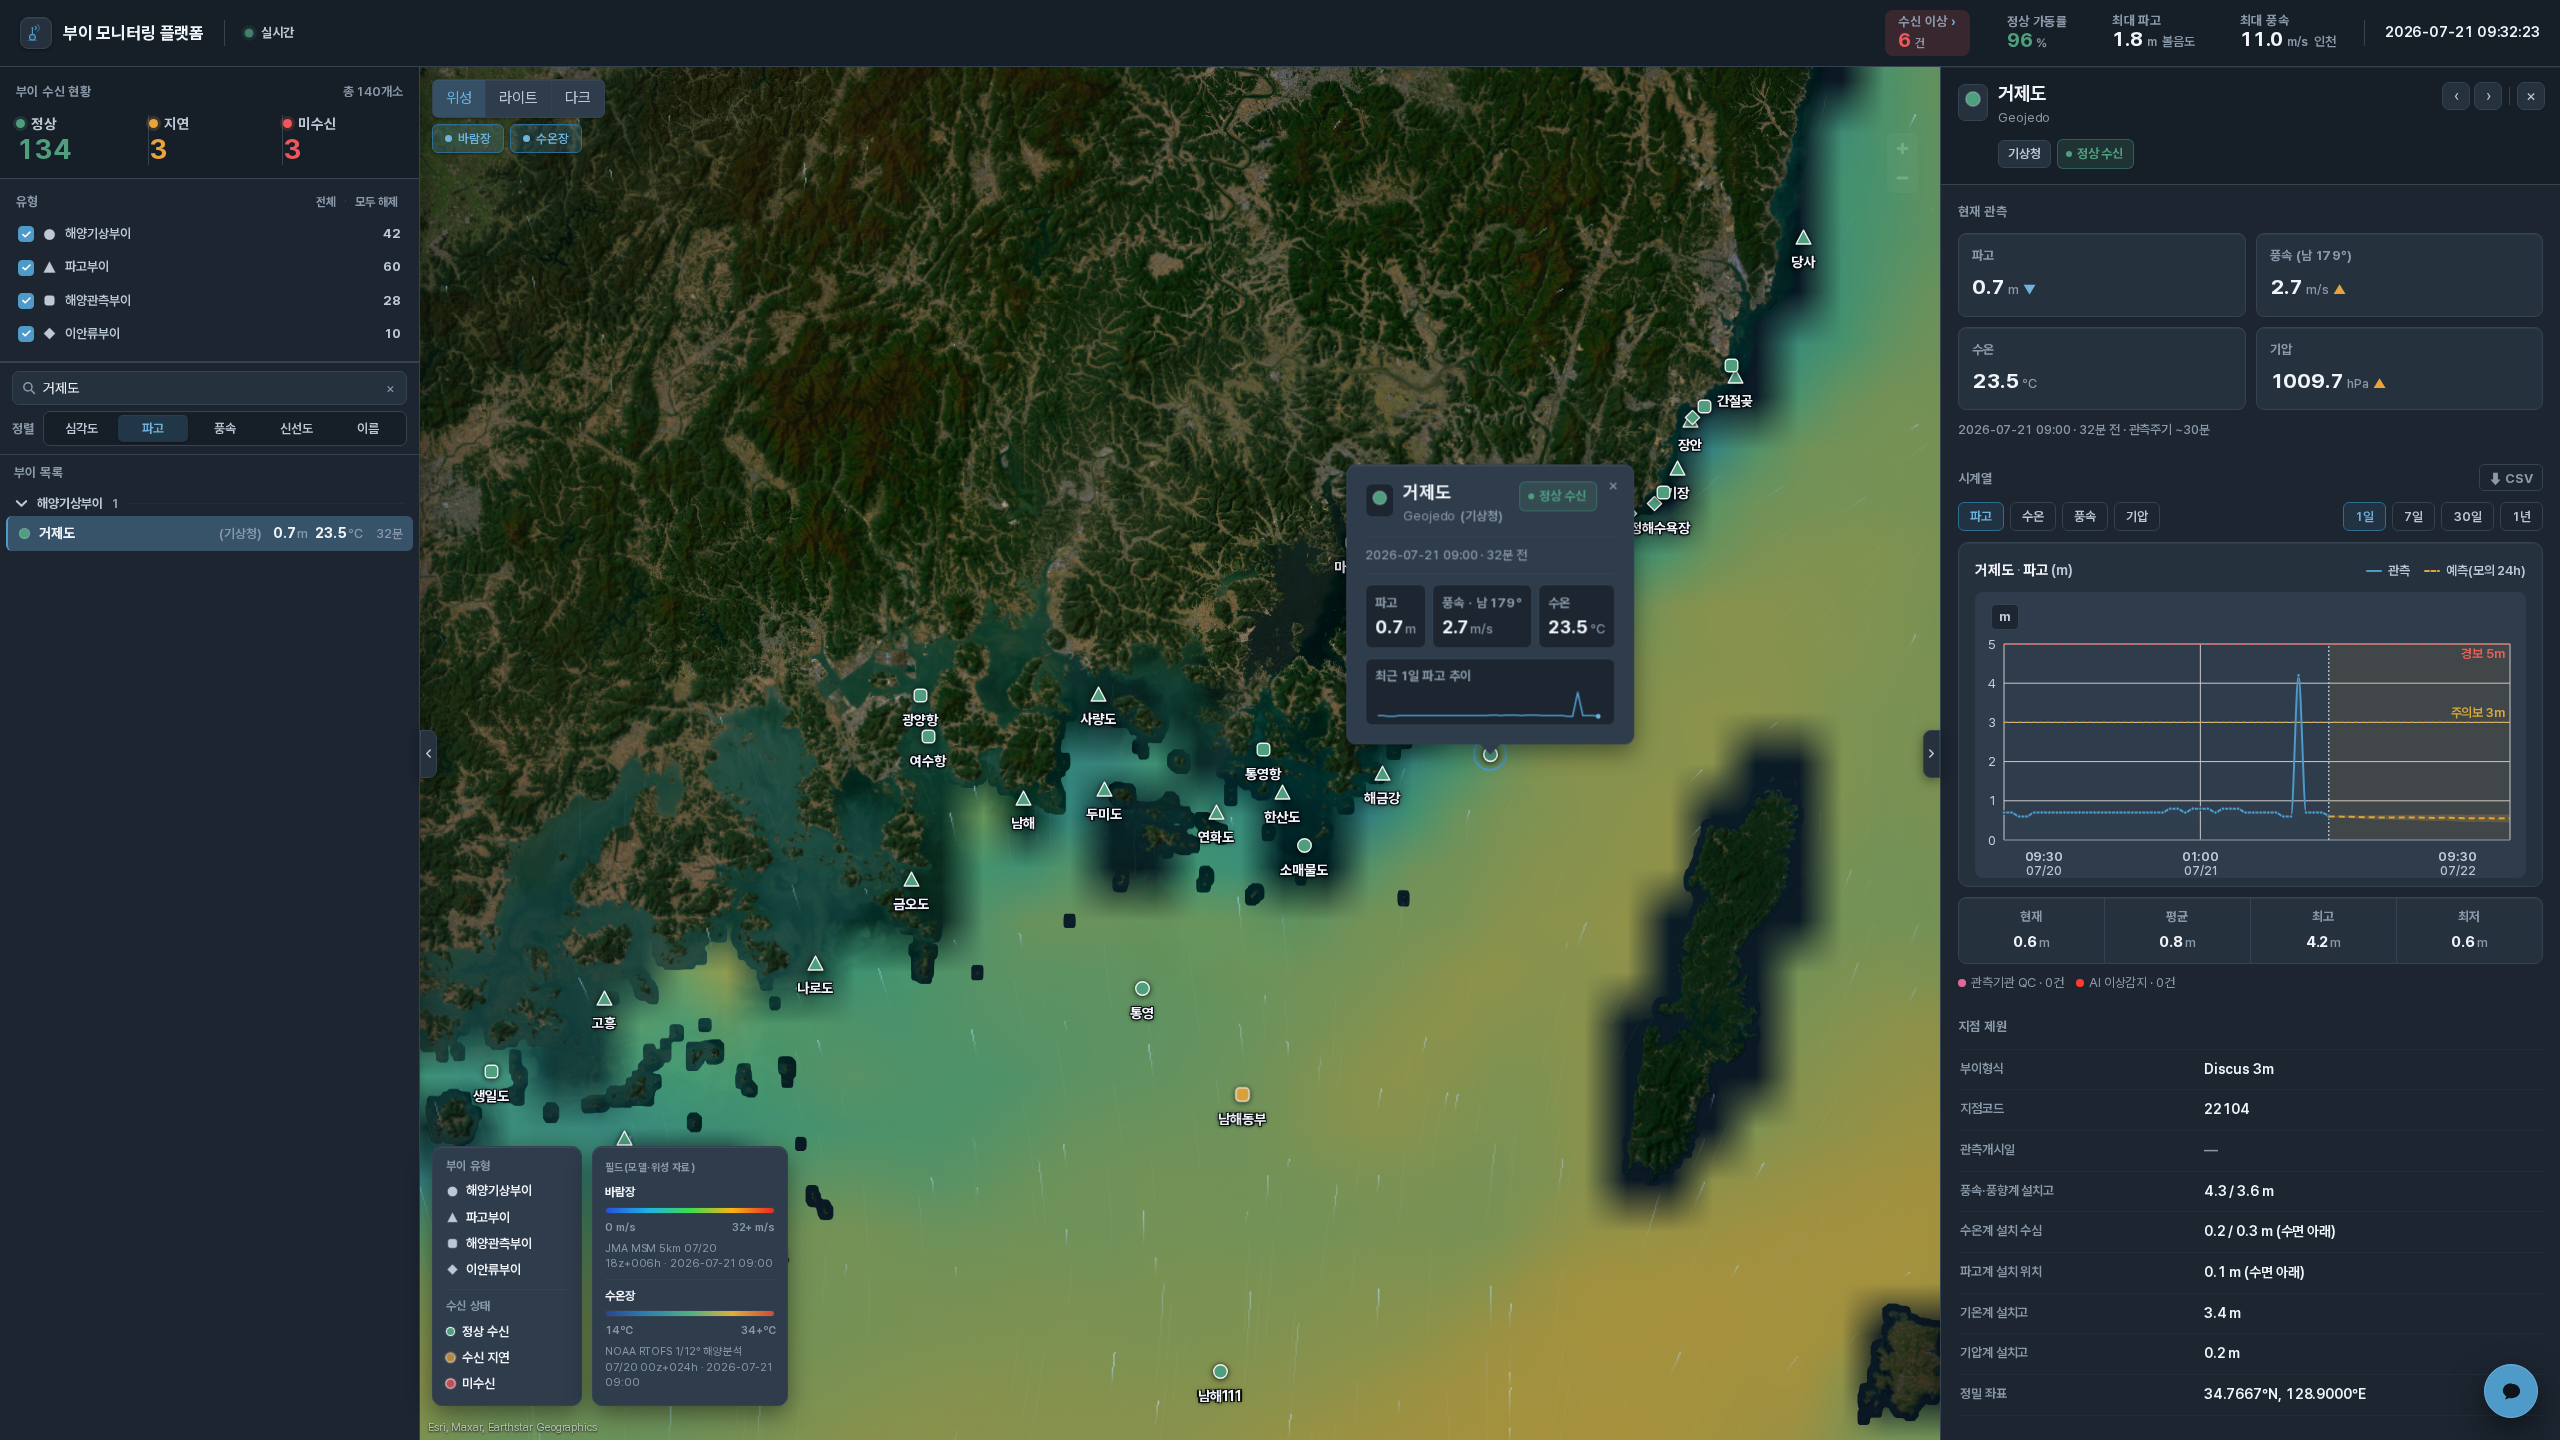
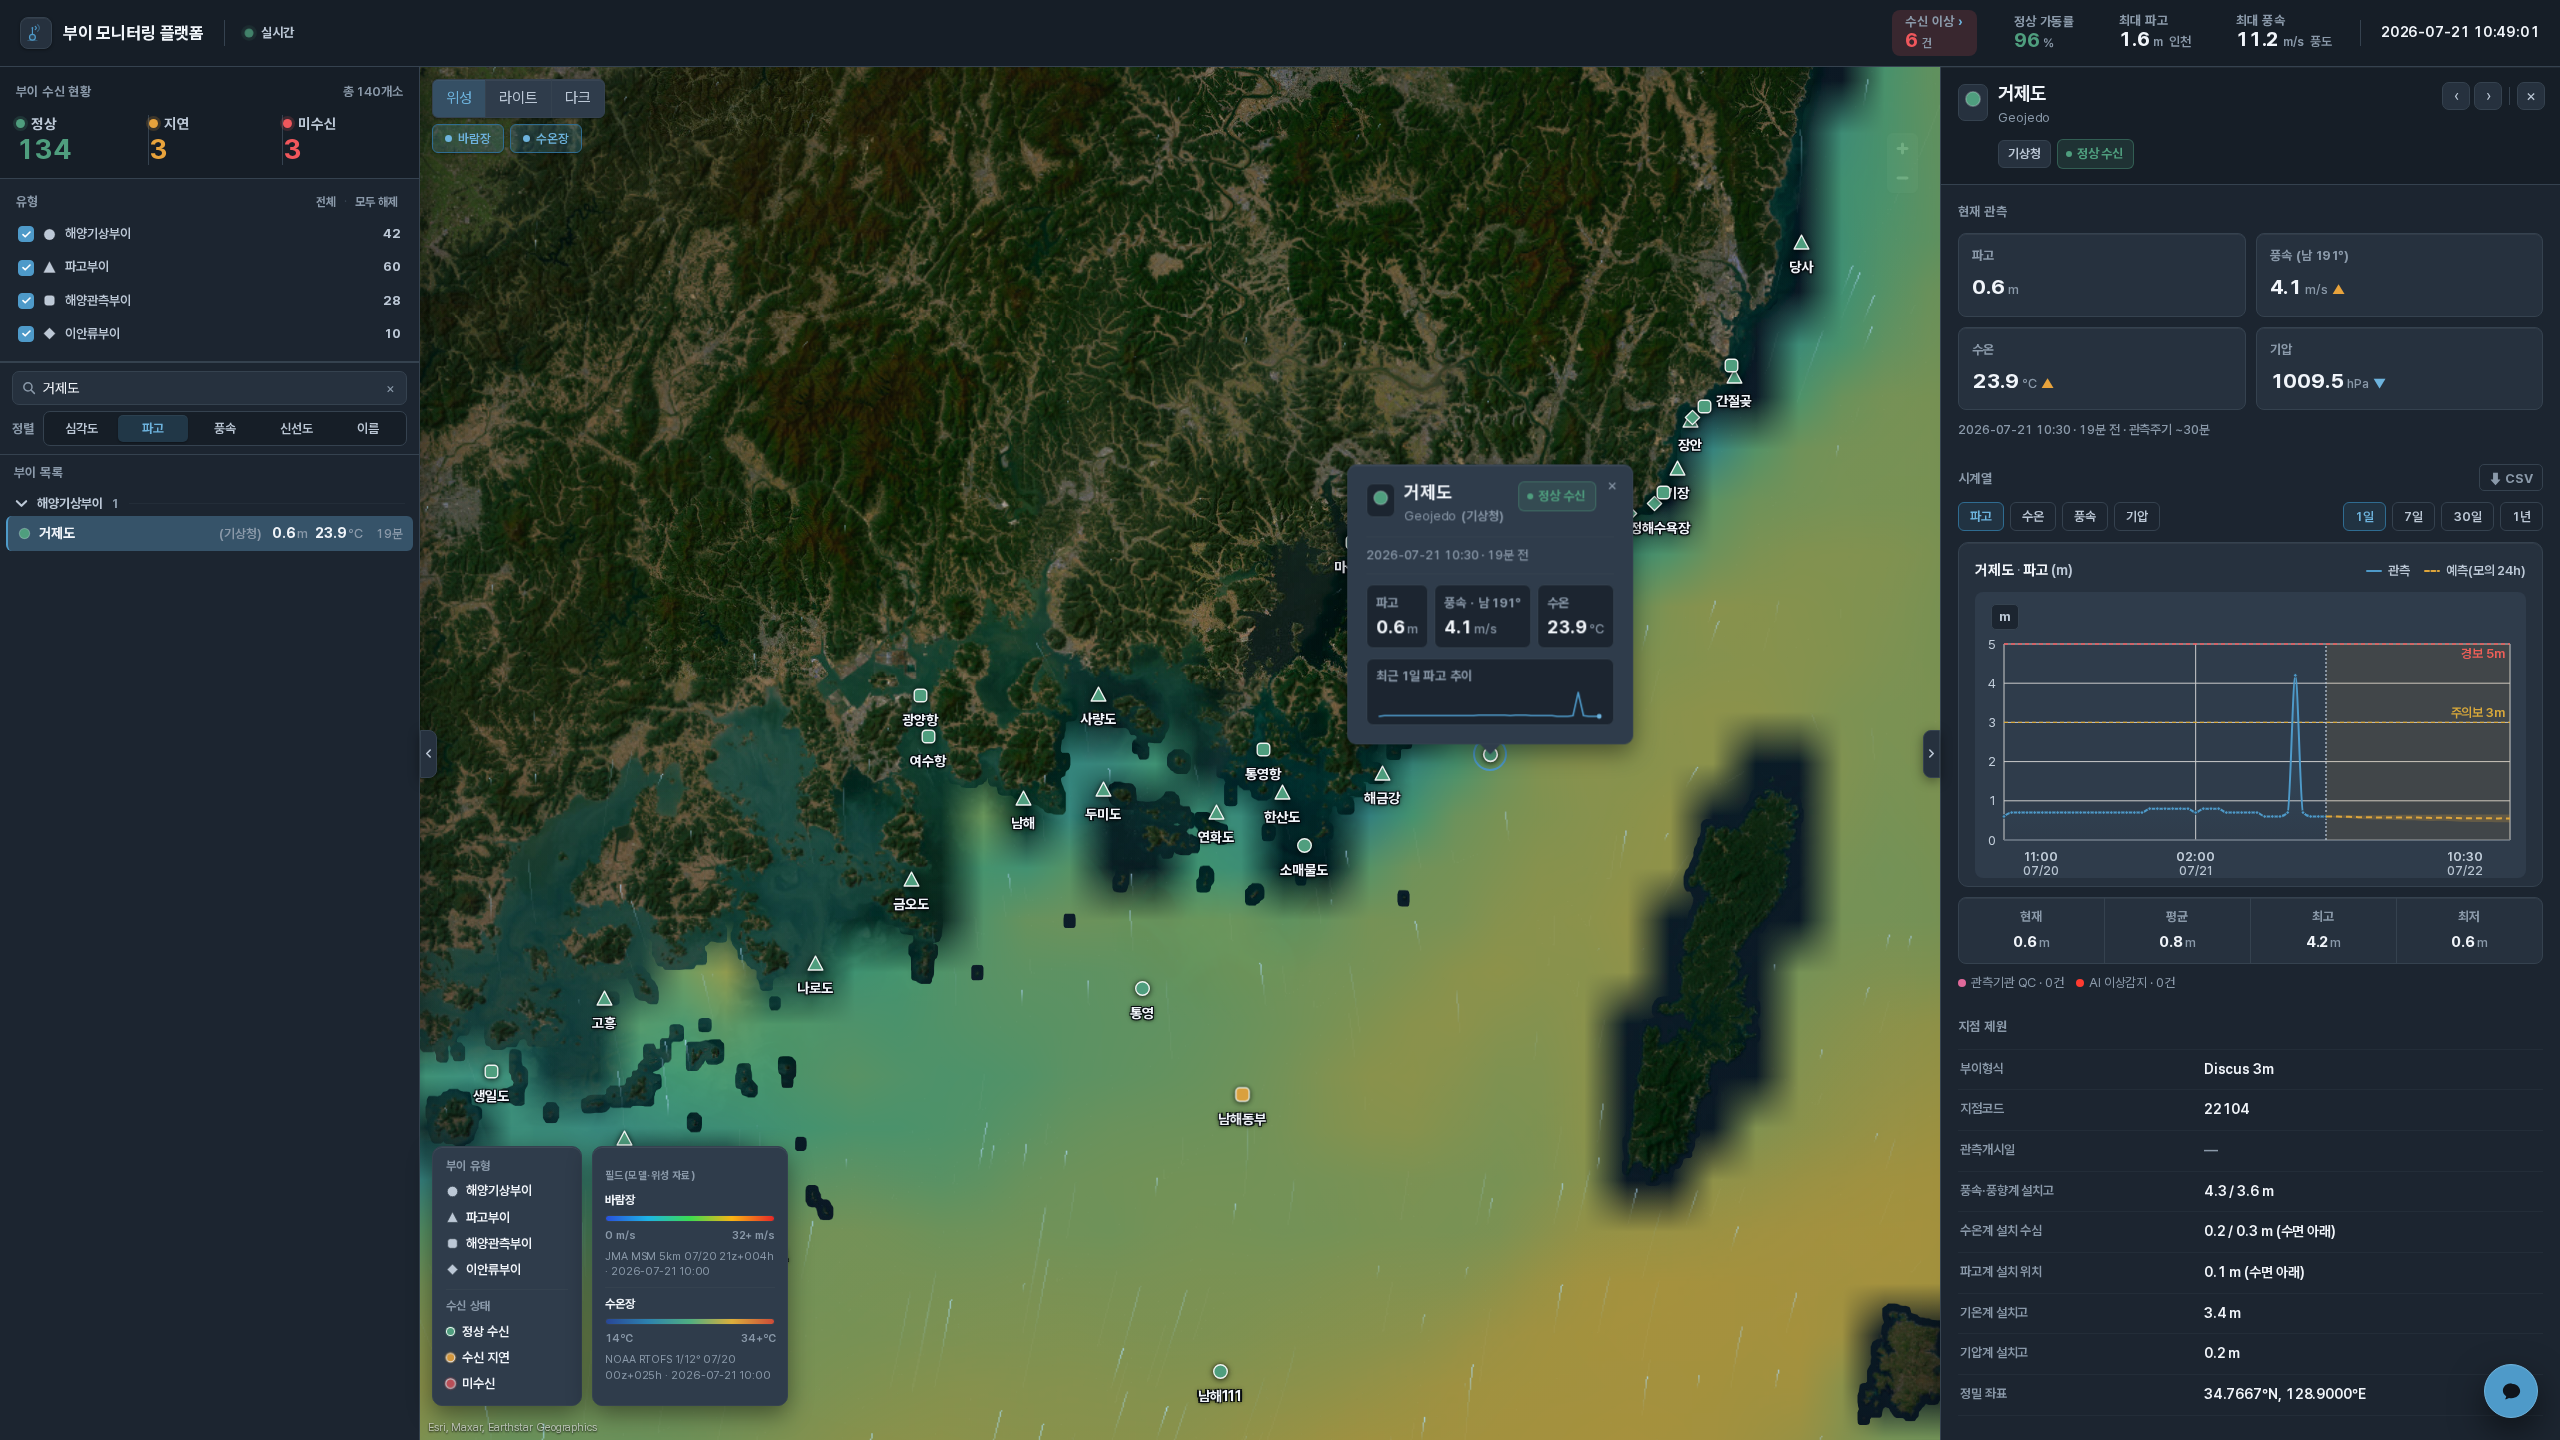
수온장 범례 표기를 바람장과 동일 양식으로: "해양분석" 제거
NOAA RTOFS 소스 문자열에서 "해양분석" 키워드 삭제 →
"NOAA RTOFS 1/12° {MM/DD} 00z+{FFF}h" 로 MSM("JMA MSM 5km {MM/DD}
{HH}z+{F}h")과 동일 구조. 범례에서 기준일이 윗줄로 정렬됨.
README 히어로 스크린샷도 갱신된 범례로 재촬영.

Claude-Session: https://claude.ai/code/session_019rRkdqpa1amc8PUAM8gYUy

diff --git a/backend/field_service.py b/backend/field_service.py
@@ -732,7 +732,7 @@ def _fetch_rtofs_one(cycle_date: datetime, fhr: int, now_utc: datetime) -> dict:
     kst = now_utc.replace(minute=0, second=0, microsecond=0) + timedelta(hours=9)
     return {
         "valid_kst": kst.strftime("%Y-%m-%d %H:00"),   # 바람 valid_kst 와 항상 동일(같은 target 시각)
-        "source": f"NOAA RTOFS 1/12° 해양분석 {cycle_date:%m/%d} 00z+{fhr:03d}h",
+        "source": f"NOAA RTOFS 1/12° {cycle_date:%m/%d} 00z+{fhr:03d}h",
         "bounds": [LON_MIN, LAT_MIN, LON_MAX, LAT_MAX],
         "rows": _RTOFS_ROWS,
         "cols": _RTOFS_COLS,
